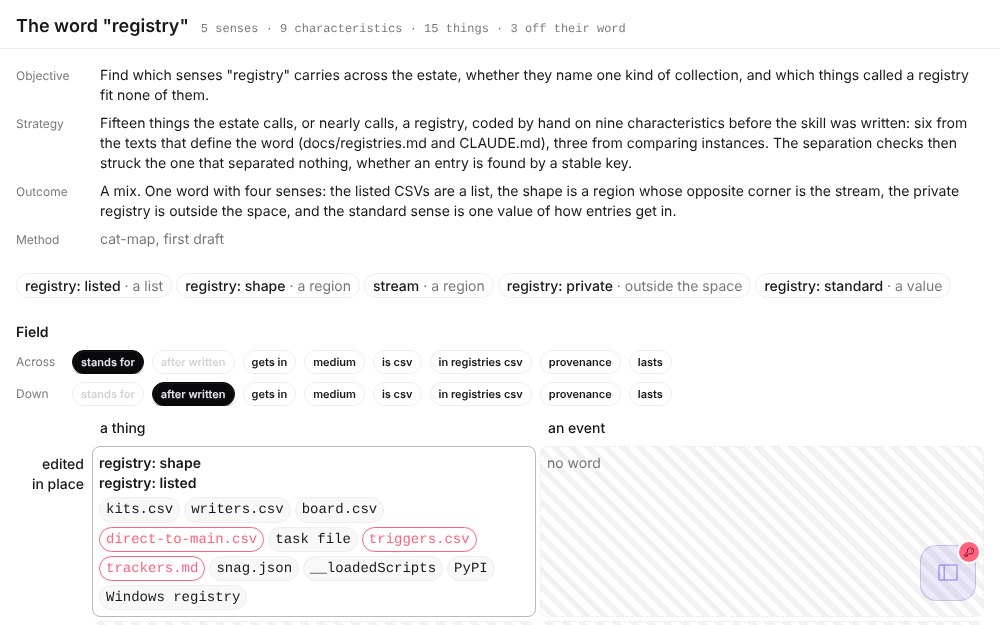
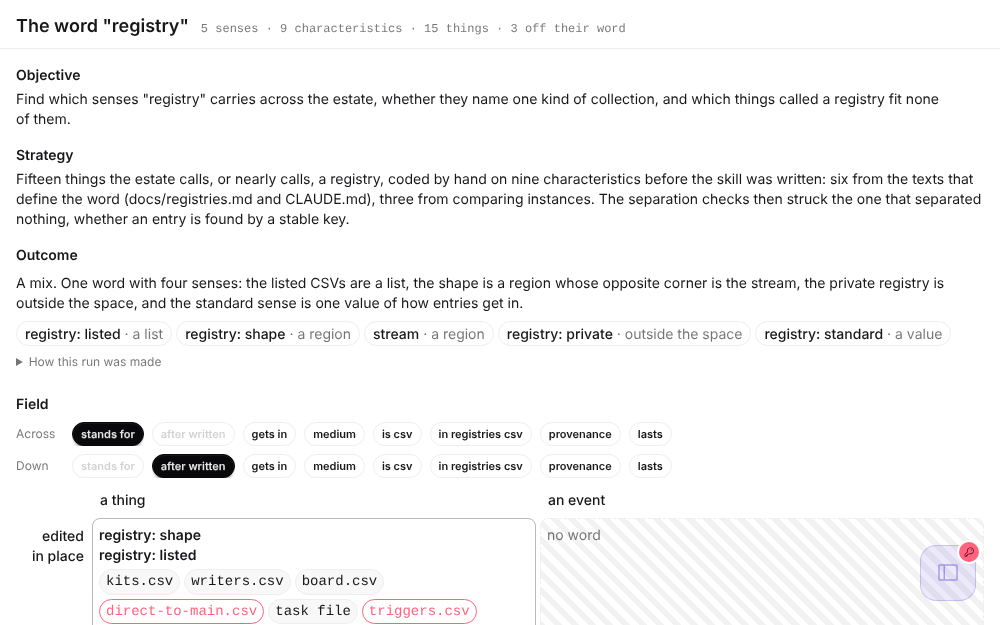
cat-map page: the brief gets its own tab; headings replace the label column
The objective and strategy belong to the map, not to a run, so they now
appear once: in a Brief tab, first in the strip and the landing view, when a
file has several runs, and above the run when it has one. A run opens with
its outcome under a heading, its senses, and how it was made in a
disclosure, as before.

The label column is gone from both places it was used: the brief's field
names in a left gutter, and the Checks list's finding kind, which each
finding's own text already states. The strip loses its "Run" label, since
Brief and Compare are not runs.

Claude-Session: https://claude.ai/code/session_01Eo4Qs5b49eitpeK9P4gAou

diff --git a/pages/cat-map.html b/pages/cat-map.html
@@ -12,15 +12,18 @@
   skill: a set of category words that blur, what each implies, and how the
   things they are applied to fall. The format is in skills/cat-map/SKILL.md.
 
-  Every view opens with the map's objective and strategy; a run's view adds
-  that run's outcome and method. Two views of one run. The field plots two characteristics at a time, each
-  sense a region of the cells its required values allow, each instance a chip
-  in its cell; a sense that constrains neither axis is listed beside it, which
-  is how "different axes" shows. The docket lists each sense's charge (the
-  values it requires) across every characteristic, with the instances called
-  by it checked against the charge, then the instances no sense is applied to.
-  A file with several runs, such as blind reviewers' maps of one question,
-  gets a run strip and a Compare view.
+  A run opens with its outcome, then two views of it. The field plots two
+  characteristics at a time, each sense a region of the cells its required
+  values allow, each instance a chip in its cell; a sense that constrains
+  neither axis is listed beside it, which is how "different axes" shows. The
+  docket lists each sense's charge (the values it requires) across every
+  characteristic, with the instances called by it checked against the charge,
+  then the instances no sense is applied to.
+
+  The map's objective and strategy are shared by every run, so they are said
+  once: above the run when there is one, and in a Brief tab, the first, when
+  there are several, such as blind readers' maps of one objective. Several
+  runs also get a Compare view.
 
   Address: #gh=owner/repo[@ref]:path or #gz=<gzipped JSON>; with neither, the
   registry test in research/category-mapping/registry-map.json.
@@ -55,9 +58,10 @@ document.addEventListener('alpine:init', () => {
     async init() {
       await window.__depsReady;
       try { this.D = await this.read(); } catch (e) { this.err = e.message; return; }
-      const k = Number(param('run'));
-      this.r = Number.isInteger(k) && k >= 0 && k < this.D.runs.length ? k : 0;
-      if (param('view') === 'compare' && this.D.runs.length > 1) this.view = 'compare';
+      const k = Number(param('run')), run = param('run') !== null && Number.isInteger(k) && k >= 0 && k < this.D.runs.length;
+      this.r = run ? k : 0;
+      // Several runs open on the brief they share, unless the address names a run or the comparison.
+      if (this.D.runs.length > 1) this.view = param('view') === 'compare' ? 'compare' : run ? 'map' : 'brief';
       this.axes();
     },
     async read() {
@@ -79,8 +83,8 @@ document.addEventListener('alpine:init', () => {
     get cats() { return this.R.categories; },
     get insts() { return this.R.instances; },
     pick(i) { this.r = i; this.open = ''; this.more = false; this.axes(); },
-    // Whether the clamped outcome or method hides any text at the current width.
-    fit() { this.$nextTick(() => { this.long = this.more || [this.$refs.outcome, this.$refs.method].some(e => e && e.scrollHeight > e.clientHeight + 1); }); },
+    // Whether the clamped outcome hides any text at the current width.
+    fit() { this.$nextTick(() => { const e = this.$refs.outcome; this.long = this.more || !!e && e.scrollHeight > e.clientHeight + 1; }); },
     axes() {
       const f = this.R.field || {}, ids = this.plottable().map(c => c.id);
       this.x = ids.includes(f.x) ? f.x : ids[0] || '';
@@ -165,11 +169,11 @@ document.addEventListener('alpine:init', () => {
     <header class="sticky top-0 z-20 bg-base-100 border-b border-base-300">
       <div class="px-4 pt-3 pb-2 flex items-baseline gap-3 flex-wrap">
         <h1 class="text-lg font-semibold text-balance" x-text="D.title"></h1>
-        <span class="text-xs text-base-content/60 font-mono" x-text="view === 'compare' ? `${D.runs.length} runs · ${words.length} words` : `${cats.length} senses · ${chars.length} characteristics · ${insts.length} things · ${offCount} off their word`"></span>
+        <span class="text-xs text-base-content/60 font-mono" x-text="view === 'map' ? `${cats.length} senses · ${chars.length} characteristics · ${insts.length} things · ${offCount} off their word` : `${D.runs.length} runs · ${words.length} words`"></span>
       </div>
       <template x-if="D.runs.length > 1">
         <div class="px-4 pb-2 flex items-center gap-2 overflow-x-auto whitespace-nowrap">
-          <span class="text-xs text-base-content/60 shrink-0">Run</span>
+          <button class="btn btn-xs rounded-full" :class="view === 'brief' ? 'btn-neutral' : 'btn-ghost border-base-300'" @click="view = 'brief'">Brief</button>
           <template x-for="(run, k) in D.runs" :key="k">
             <button class="btn btn-xs rounded-full" :class="view === 'map' && r === k ? 'btn-neutral' : 'btn-ghost border-base-300'" @click="view = 'map'; pick(k)" x-text="run.by"></button>
           </template>
@@ -178,25 +182,29 @@ document.addEventListener('alpine:init', () => {
       </template>
     </header>
 
-    <!-- What the map is for and how it set out; in one run's view, that run's outcome and method under them -->
-    <section class="px-4 pt-4 grid grid-cols-[4.5rem_minmax(0,1fr)] gap-x-3 gap-y-2 items-baseline">
-      <span class="text-xs text-base-content/60">Objective</span><p class="text-sm text-pretty" x-text="D.objective"></p>
-      <span class="text-xs text-base-content/60">Strategy</span><p class="text-sm text-pretty" x-text="D.strategy"></p>
-      <template x-if="view === 'map'">
-        <div class="contents" x-effect="R.outcome; R.method; fit()" @resize.window.debounce="fit()">
-          <span class="text-xs text-base-content/60">Outcome</span><p x-ref="outcome" class="text-sm text-pretty" :class="more ? '' : 'line-clamp-3'" x-text="R.outcome?.summary"></p>
-          <span class="text-xs text-base-content/60">Method</span><p x-ref="method" class="text-sm text-pretty text-base-content/60" :class="more ? '' : 'line-clamp-2'" x-text="R.method"></p>
-          <span x-show="long"></span><button x-show="long" class="btn btn-ghost btn-xs px-1 justify-self-start" @click="more = !more" x-text="more ? 'Less' : 'All of it'"></button>
-        </div>
-      </template>
+    <!-- The brief every run shares: its own tab when there are several runs, above the map when there is one -->
+    <section x-show="view === 'brief' || D.runs.length === 1" class="px-4 pt-4 grid gap-4">
+      <div class="grid gap-1"><h2 class="text-sm font-semibold">Objective</h2><p class="text-sm text-pretty" x-text="D.objective"></p></div>
+      <div class="grid gap-1"><h2 class="text-sm font-semibold">Strategy</h2><p class="text-sm text-pretty" x-text="D.strategy"></p></div>
     </section>
 
     <!-- One run -->
-    <main x-show="view === 'map'" class="px-4 pt-6 pb-4 grid gap-6">
-      <section class="flex flex-wrap gap-1">
-        <template x-for="c in cats" :key="c.id">
-          <span class="rounded-full border border-base-300 px-2 py-0.5 text-sm leading-snug"><span class="font-medium" x-text="tag(c)"></span><span class="text-base-content/60" x-text="' · ' + kind(c.kind)"></span></span>
-        </template>
+    <main x-show="view === 'map'" class="px-4 py-4 grid gap-6">
+      <section class="grid gap-2" x-effect="view; R.outcome; fit()" @resize.window.debounce="fit()">
+        <h2 class="text-sm font-semibold">Outcome</h2>
+        <div class="grid justify-items-start gap-1">
+          <p x-ref="outcome" class="text-sm text-pretty" :class="more ? '' : 'line-clamp-3'" x-text="R.outcome?.summary"></p>
+          <button x-show="long" class="btn btn-ghost btn-xs px-1" @click="more = !more" x-text="more ? 'Less' : 'All of it'"></button>
+        </div>
+        <div class="flex flex-wrap gap-1">
+          <template x-for="c in cats" :key="c.id">
+            <span class="rounded-full border border-base-300 px-2 py-0.5 text-sm leading-snug"><span class="font-medium" x-text="tag(c)"></span><span class="text-base-content/60" x-text="' · ' + kind(c.kind)"></span></span>
+          </template>
+        </div>
+        <details x-show="R.method" class="text-xs text-base-content/60">
+          <summary class="cursor-pointer">How this run was made</summary>
+          <p class="mt-1 text-sm text-pretty" x-text="R.method"></p>
+        </details>
       </section>
 
       <!-- The field -->
@@ -330,18 +338,18 @@ document.addEventListener('alpine:init', () => {
       </section>
 
       <!-- Every finding the checks wrote, including the ones the docket header marks -->
-      <section x-show="rest.length" class="grid gap-1 scroll-mt-28">
+      <section x-show="rest.length" class="grid gap-2 scroll-mt-28">
         <h2 class="text-sm font-semibold">Checks</h2>
-        <div class="grid grid-cols-[6rem_minmax(0,1fr)] gap-x-3 gap-y-1">
+        <ul class="grid gap-2">
           <template x-for="(f, k) in rest" :key="'f' + k">
-            <div class="contents"><span class="text-xs font-mono text-base-content/60 pt-0.5" x-text="f.kind"></span><div class="text-sm text-pretty"><div x-text="f.text"></div><div x-show="f.rationale" class="text-base-content/60" x-text="f.rationale"></div></div></div>
+            <li class="text-sm text-pretty"><div x-text="f.text"></div><div x-show="f.rationale" class="text-base-content/60" x-text="f.rationale"></div></li>
           </template>
-        </div>
+        </ul>
       </section>
     </main>
 
     <!-- Runs side by side -->
-    <main x-show="view === 'compare'" class="px-4 pt-6 pb-4 grid gap-6">
+    <main x-show="view === 'compare'" class="px-4 py-4 grid gap-6">
       <section x-show="(D.agreement || []).length" class="grid gap-2 min-w-0">
         <h2 class="text-sm font-semibold">Where the runs agree</h2>
         <div class="overflow-x-auto rounded-box border border-base-300">
